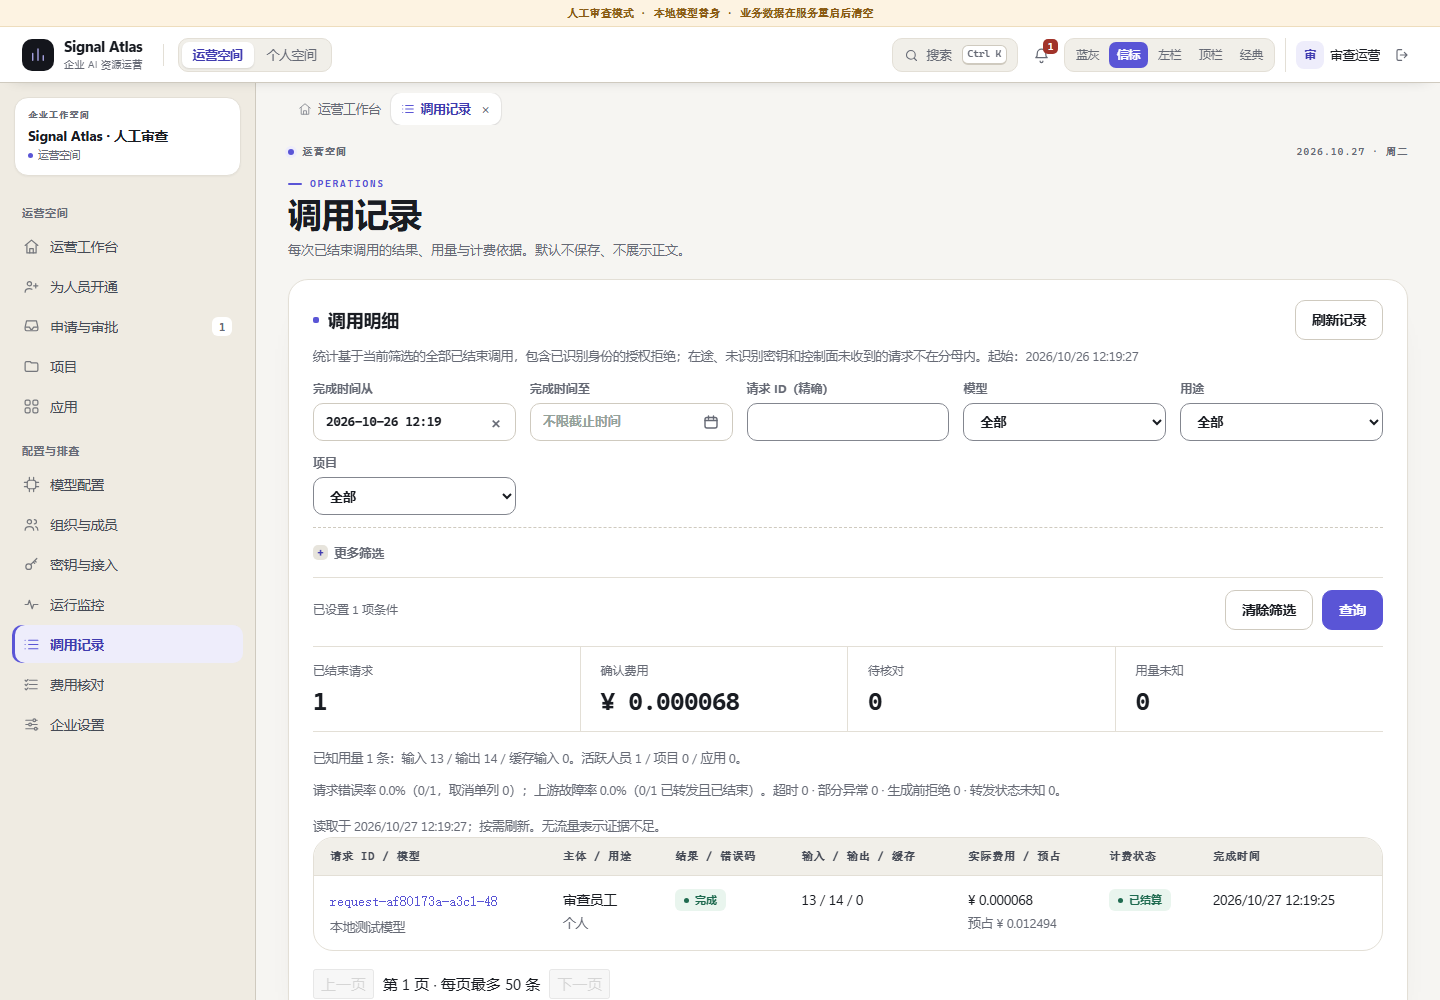
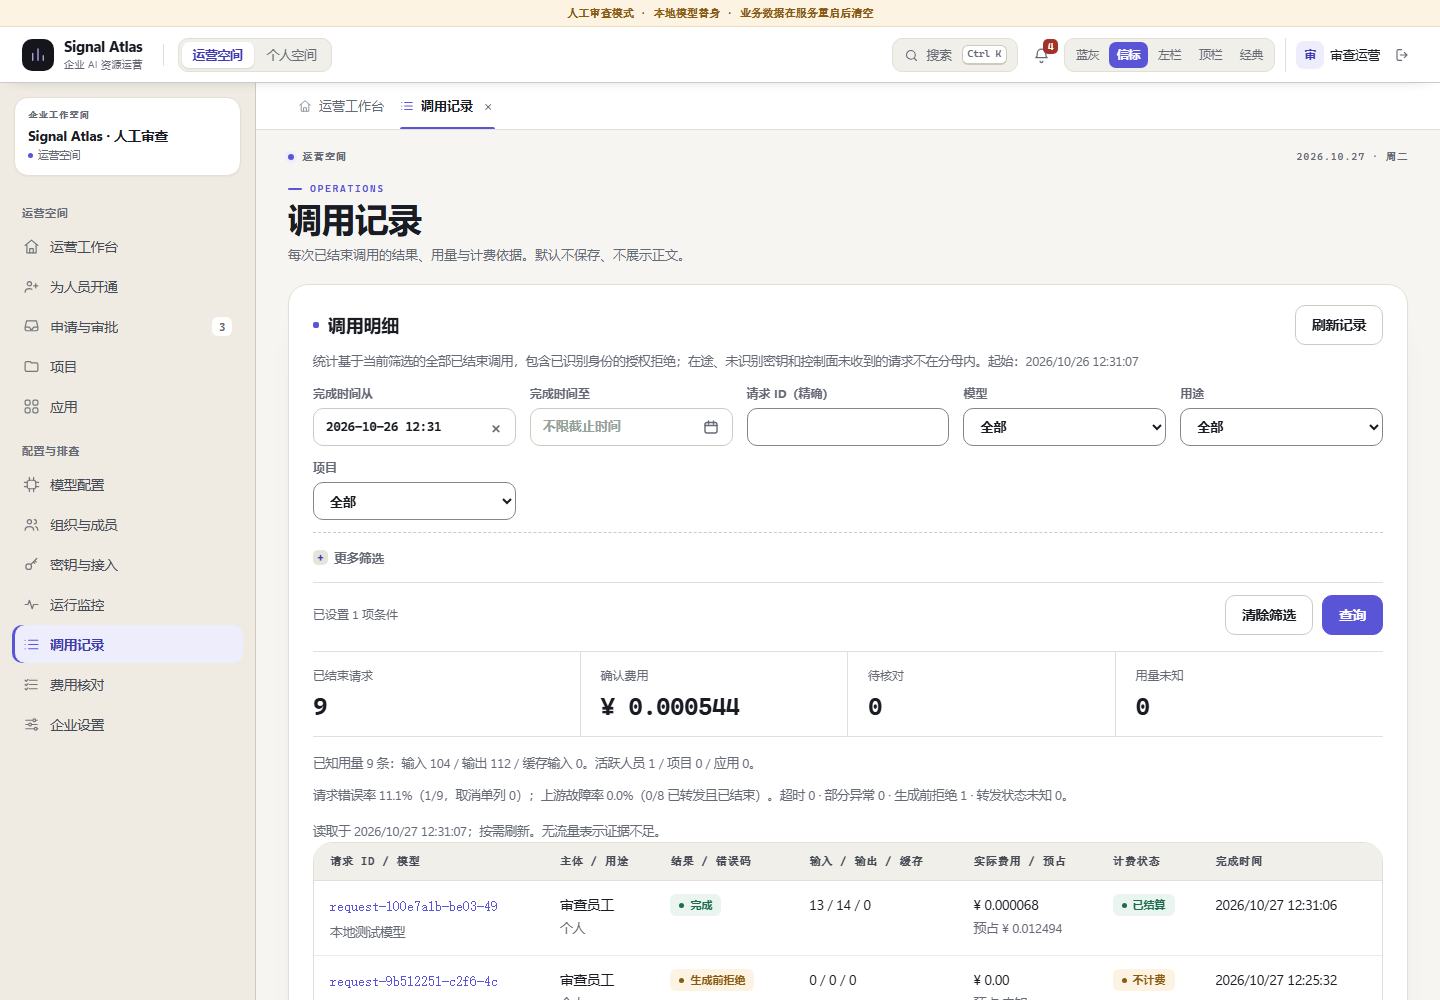
fix(web): make the beacon page tabs read as tabs
The white pill on a warm canvas had almost no edge, so the active page was
invisible in the strip. Use the reference's underline language instead:

- the strip becomes a white band (surface + 1px --line) under the top bar and
  sticks with it, so tabs sit inside the chrome instead of on the canvas
- inactive tabs are plain grey text with a --surface2 hover; the active tab is
  ink text with a 2px accent rule and an accent icon
- tab height 32 -> 46px, close button margin 4 -> 6px

Re-verified: typecheck, build, 82 browser assertions, 110 page/width overflow
combinations; the 12 review screenshots are re-shot against the demo data.

diff --git a/apps/web/src/design-v5.css b/apps/web/src/design-v5.css
@@ -402,18 +402,23 @@ html[data-ui="beacon"] .v4-sidebar-footer { display: none; margin-top: auto; pad
 html[data-ui="beacon"] .v4-side-note { display: block; margin: 0 2px 10px; color: var(--azure-faint); font-size: 10.5px; line-height: 1.5; }
 
 /* ---------- page tabs ---------- */
+/* Reference language for tabs is 「白条 + 紫色下划线」: the bar is a white strip
+   inside the chrome, the active tab is ink text with a 2px accent rule. On the
+   warm canvas a white pill was invisible, and a filled pill would have competed
+   with the rail's selected state. */
 html[data-ui="beacon"] .v4-tabbar {
   position: sticky;
   top: var(--azure-topbar);
   z-index: 25;
-  background: var(--bg);
-  padding-top: 10px;
+  background: var(--surface);
+  border-bottom: 1px solid var(--line);
+  padding-top: 0;
 }
-html[data-ui="beacon"] .v4-tabbar-inner { display: flex; align-items: center; width: 100%; max-width: 1320px; margin: 0 auto; padding: 0 var(--v2-pad); }
+html[data-ui="beacon"] .v4-tabbar-inner { display: flex; align-items: stretch; width: 100%; max-width: 1320px; margin: 0 auto; padding: 0 var(--v2-pad); min-height: 46px; }
 html[data-ui="beacon"] .v4-tabs {
   display: flex;
-  align-items: center;
-  gap: 4px;
+  align-items: stretch;
+  gap: 0;
   width: 100%;
   min-width: 0;
   overflow-x: auto;
@@ -421,37 +426,49 @@ html[data-ui="beacon"] .v4-tabs {
 }
 html[data-ui="beacon"] .v4-tabs::-webkit-scrollbar { display: none; }
 html[data-ui="beacon"] .v4-tab {
+  position: relative;
   display: flex;
   align-items: center;
   flex: none;
-  height: 32px;
-  border-radius: var(--azure-radius);
+  height: 46px;
+  border-radius: 0;
   transition: background 120ms var(--beacon-ease);
 }
 html[data-ui="beacon"] .v4-tab:hover { background: var(--surface2); }
-html[data-ui="beacon"] .v4-tab.active { background: var(--surface); box-shadow: 0 1px 2px rgba(25, 28, 34, .08), 0 0 0 1px rgba(25, 28, 34, .05); }
+html[data-ui="beacon"] .v4-tab.active { background: transparent; box-shadow: none; }
+html[data-ui="beacon"] .v4-tab.active::after {
+  content: "";
+  position: absolute;
+  left: 10px;
+  right: 10px;
+  bottom: 0;
+  height: 2px;
+  border-radius: 2px 2px 0 0;
+  background: var(--action);
+}
 html[data-ui="beacon"] .v4-tab-select {
   display: inline-flex;
   align-items: center;
-  gap: 6px;
-  height: 32px;
+  gap: 7px;
+  height: 46px;
   padding: 0 6px 0 10px;
   border: 0;
-  border-radius: var(--azure-radius);
+  border-radius: 0;
   background: transparent;
   color: var(--muted);
-  font-size: 12.5px;
+  font-size: 13px;
   white-space: nowrap;
 }
+html[data-ui="beacon"] .v4-tab-select:hover { color: var(--text); }
 html[data-ui="beacon"] .v4-tab-select svg { flex: none; opacity: .7; }
-html[data-ui="beacon"] .v4-tab.active .v4-tab-select { color: var(--v2-primary-strong); font-weight: 650; padding-right: 4px; }
+html[data-ui="beacon"] .v4-tab.active .v4-tab-select { color: var(--text); font-weight: 650; padding-right: 4px; }
 html[data-ui="beacon"] .v4-tab.active .v4-tab-select svg { color: var(--action); opacity: 1; }
 html[data-ui="beacon"] .v4-tab-close {
   display: grid;
   place-items: center;
   width: 22px;
   height: 22px;
-  margin-right: 4px;
+  margin-right: 6px;
   flex: none;
   border: 0;
   border-radius: 6px;

diff --git a/docs/product/signal-atlas-v5-beacon-review.md b/docs/product/signal-atlas-v5-beacon-review.md
@@ -78,7 +78,7 @@
 - 面板圆角 20px、内边距 20–24px、投影 `0 1px 2px rgba(25,28,34,.04), 0 20px 40px -36px rgba(25,28,34,.42)`。
 - 标签圆角 6px；表格卡片 20px；hero 卡 26px；弹窗 20px。
 - 余额大数字 48px / 650（≤760px 降为 40px）；统计条仍为 25px，表格 13.5px。
-- 顶栏 56px（窄屏 52px）、左栏 256px（≤1180px 收窄到 232px、≤900px 收进抽屉）、页面内边距 32px —— 均沿用 v4 几何，避免第五套界面改变操作习惯。
+- 顶栏 56px（窄屏 52px）、页面标签 46px、左栏 256px（≤1180px 收窄到 232px、≤900px 收进抽屉）、页面内边距 32px —— 均沿用 v4 几何，避免第五套界面改变操作习惯。
 
 ## 4. 壳层
 
@@ -116,7 +116,9 @@
 
 ### 4.3 页面标签
 
-- 内容区顶部、页面之上；当前标签白底，其余透明文字标签，hover 为 `--surface2`。
+- 顶栏之下的白色条带（`--surface` + 1px `--line` 下线），与暖白画布分开；滚动时与顶栏一起吸附。
+- 标签文字用参考件的下划线语言：非活动标签灰字、无底色，hover 才出现 `--surface2`；**活动标签深墨字 + 底部 2px 紫条**。不用白底胶囊——在暖白画布上白胶囊几乎看不出边界（这是评审提出的第一处显眼问题）。
+- 标签高 46px，图标在活动态转紫；关闭按钮 22px 灰字，hover 加深。
 - 同一页面只保留一个标签；空间默认页固定且不可关闭。
 - 会话内保持挂载：切换标签只改显隐，不重置筛选、步骤、草稿和滚动位置。
 
